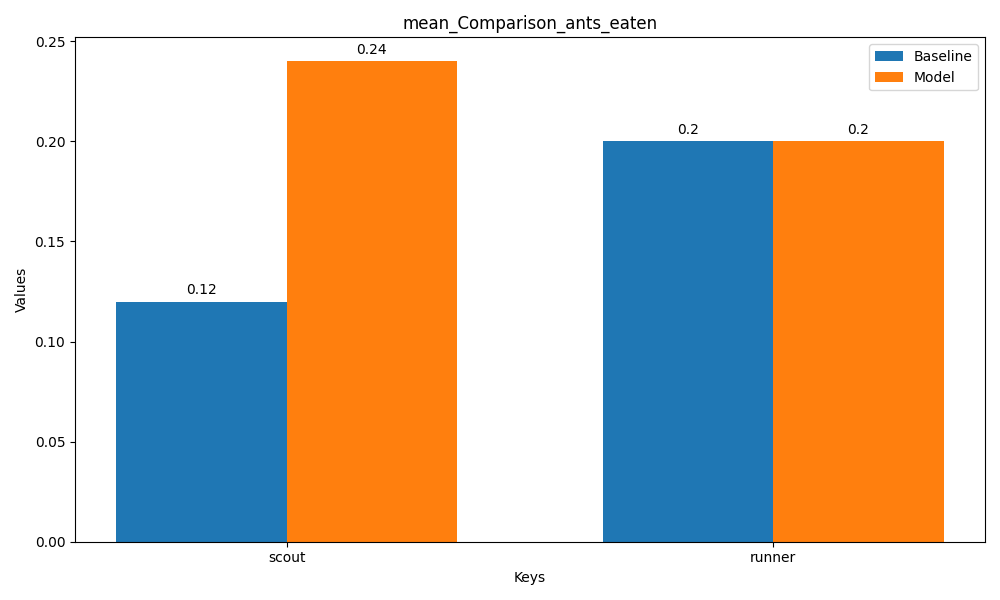
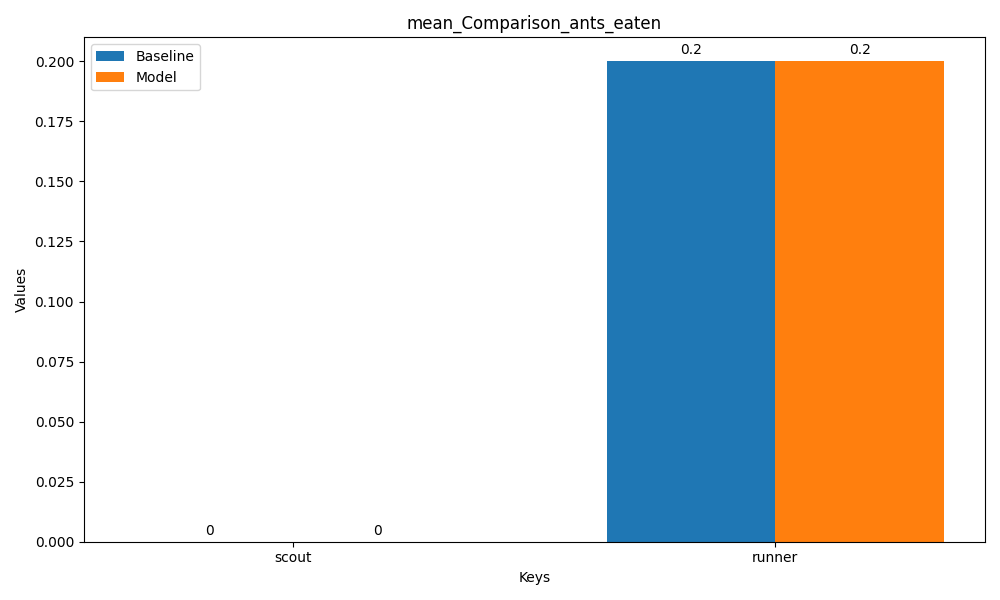
added rewards next N states, changed reward from final reward at timestep t to total reward at timestep t

diff --git a/entities/queen.py b/entities/queen.py
@@ -22,7 +22,8 @@ class queen():
                        }[species_name]
  
     # self.max_sequence_length = 15
-    self.eps = 1.0 if control else 0.25 
+    self.eps = 1.0
+    self.eps_decay = 0.999
     self.control = control
     self.number_of_dreams = 1
     self.discount_factor = 0.9
@@ -54,6 +55,12 @@ class queen():
         tf.keras.layers.Masking(mask_value=0),  # Mask padded values (0.0)
         # tf.keras.layers.InputLayer(shape=(None,self.max_input_size*self.max_input_size),dtype=int),
         tf.keras.layers.LSTM(64*8, return_sequences=True),
+        tf.keras.layers.LSTM(64*8, return_sequences=True),
+        tf.keras.layers.LSTM(64*8, return_sequences=True),
+        tf.keras.layers.LSTM(64*8, return_sequences=True),
+        tf.keras.layers.LSTM(64*8, return_sequences=True),
+        tf.keras.layers.LSTM(64*8, return_sequences=True),
+        tf.keras.layers.LSTM(64*8, return_sequences=True),
         # tf.keras.layers.SimpleRNN(64, return_sequences=True),
         # tf.keras.layers.SimpleRNN(64, return_sequences=True),
         # tf.keras.layers.SimpleRNN(64, return_sequences=True),
@@ -63,7 +70,7 @@ class queen():
         tf.keras.layers.Dropout(rate=0.25),
         tf.keras.layers.Dense(64,activation='relu'),  # Output Q-values for each action
         tf.keras.layers.Dropout(rate=0.25),
-        tf.keras.layers.Dense(self.action_space,activation='sigmoid')  # Output Q-values for each action
+        tf.keras.layers.Dense(self.action_space,activation='relu')  # Output Q-values for each action
       ])
       
       # lr_schedule = tf.keras.optimizers.schedules.ExponentialDecay(
@@ -71,22 +78,22 @@ class queen():
       #     decay_steps=1000,
       #     decay_rate=0.9
       # )
-      opt = tf.keras.optimizers.Adam(learning_rate=0.00001)
-      # opt = tf.keras.optimizers.RMSprop(learning_rate=0.001)
+      # opt = tf.keras.optimizers.Adam(learning_rate=0.00001)
+      opt = tf.keras.optimizers.RMSprop(learning_rate=0.0001)
       # opt = tf.keras.optimizers.Adam(learning_rate=lr_schedule)
       # self.model.compile(optimizer=opt, loss='mse')#mae?
       self.model.compile(optimizer=opt, loss='mae')#mae?
 
       
 
-  def train_model(self,episode):
+  def train_model(self,episode,epochs):
     if self.control:
       return
     X = []
     y = []
     
     #randomly select n files for training
-    limit = 10000 
+    limit = 200
     file_list = os.listdir(self.example_ant.history_path)
     rand_indecies = [random.randint(0,len(file_list)-1) for _ in range(limit)]
     file_list = [file_list[ind] for ind in rand_indecies]
@@ -96,50 +103,54 @@ class queen():
         ant_history = [obj for obj in f]
 
       #limit history randomly
-      random_limit = random.randint(1,len(ant_history))
-      
-      #X
-      ant_history = ant_history[:random_limit]
-      padded_history = self.pad_ant_obs_list(obs=None,history=ant_history)
-      X.append(tf.reshape(padded_history,(self.max_sequence_length,self.max_input_size*self.max_input_size)))
-      
+      # random_limit = random.randint(1,len(ant_history))
+      if len(ant_history) == 0:
+        continue
+      for sequential_limit in range(0,len(ant_history)):
+        #X
+        ant_history_limited = ant_history[:sequential_limit+1]
+        padded_history = self.pad_ant_obs_list(obs=None,history=ant_history_limited)
+        X.append(tf.reshape(padded_history,(self.max_sequence_length,self.max_input_size*self.max_input_size)))
+        #y
+        ant_y = np.array([dct['reward'] for dct in ant_history_limited]) 
 
-      #y
-      # ant_y = np.array([[dct['reward'] if i == dct['action'] else 
-      #                    a for i,a in enumerate(range(self.action_space))] 
-      #                    for dct in ant_history]) 
+        # #append sum of reward to arr 
+        regulatory_term = (np.max(ant_y) - np.min(ant_y))
+        regulatory_term = 1 if regulatory_term==0 else regulatory_term
+        ant_y = (ant_y - np.min(ant_y))/regulatory_term
+        y.append([sum(col) for col in zip(*ant_y)])
 
-      ant_y = np.array([dct['reward'] for dct in ant_history]) 
-      # ant_y = (ant_y - np.mean(ant_y))/np.std(ant_y)
-      regulatory_term = (np.max(ant_y) - np.min(ant_y))
-      regulatory_term = 1 if regulatory_term==0 else regulatory_term
-      ant_y = (ant_y - np.min(ant_y))/regulatory_term
-      y.append(sum(ant_y[:random_limit]))
+        # #append only last reward to arr
+        # reward_arr = ant_y[sequential_limit]
+        # regulatory_term = (np.max(reward_arr) - np.min(reward_arr))
+        # regulatory_term = 1 if regulatory_term==0 else regulatory_term
+        # reward_arr = (reward_arr - np.min(reward_arr))/regulatory_term
+        # y.append(reward_arr)
     
     print(self.example_ant.name,'training',' episode ',episode)
 
     val_loss_early_stopping = tf.keras.callbacks.EarlyStopping(monitor='val_loss',    
-                                                                patience=3,           
+                                                                patience=50,           
                                                                 verbose=0, 
                                                                 restore_best_weights=True)
     train_loss_early_stopping = tf.keras.callbacks.EarlyStopping(monitor='loss',    
-                                                                patience=5,           
+                                                                patience=50,           
                                                                 verbose=0, 
                                                                 restore_best_weights=True)
-    self.model.fit(np.array(X),
+    train_history = self.model.fit(np.array(X),
                   np.array(y),
-                  # epochs=5,
-                  epochs=100,
+                  epochs=epochs,
                   validation_split=0.1,
                   callbacks = [val_loss_early_stopping,train_loss_early_stopping],
                   # verbose=0,
-                  batch_size = 1048
+                  batch_size = 512
                   )
 
     self.model.save(self.example_ant.model_path)
-
+    return train_history
   def infer(self,obs_list,ant_history,dreaming=False):
-    # obs_list = tf.reshape(obs_list,(-1,self.max_sequence_length,self.max_input_size,self.max_input_size))
+    if self.eps<=0.1:
+      self.eps = self.eps*self.eps_decay
     actions=[]
     #add epsilon randomness and decay
     if self.eps > random.random():
@@ -166,16 +177,22 @@ class queen():
       actions = [np.argmax(pred_reward) for pred_reward in predicted_rewards]
     
 
-    dream_start_time=time.time()
+    # dream_start_time=time.time()
+    new_obs_time = []
     reward_arr = np.array([[0.0 for a in range(self.action_space)] for _ in range(len(obs_list))])
     for i,action in enumerate(range(self.action_space)):
+      new_obs_start_time=time.time()
       next_potential_obs_list = [self.get_new_obs_from_action(obs,action) for obs in obs_list]
+      new_obs_end_time=time.time()
+      new_obs_time.append(new_obs_end_time-new_obs_start_time)
       #fill rewards with state_reward, no dreaming yet
       for j,obs in enumerate(next_potential_obs_list):
         reward_arr[j,action] = self.example_ant.get_reward(obs)
 
+
       dreaming_reward_arr = []
       if dreaming==False:
+        dream_start_time=time.time()
         #get predicted rewards
         for i,dream in enumerate(range(self.number_of_dreams)):
           if i==0:
@@ -188,14 +205,18 @@ class queen():
         for j,reward_sum in enumerate(range(len(reward_arr))):
           # assert len(dreaming_reward_arr[j]) == len(reward_arr)
           reward_arr[j][action] += sum([r[j] for r in dreaming_reward_arr])
+        dream_end_time=time.time()
+        # print('Dream time',dream_end_time-dream_start_time)
       
     dream_end_time=time.time()
-    print('Dream time',dream_end_time-dream_start_time)
     history = []
     for i,obs in enumerate(obs_list):
       #store observation, decision, and reward for future training
       # history.append({'obs':np.squeeze(obs.numpy()).tolist(),'action':int(action),'reward':float(reward)})#doing this every time might be too slow, maybe gather and save in batches?
       history.append({'obs':np.squeeze(np.array(obs)).tolist(),'reward':[float(r) for r in reward_arr[i]]})#doing this every time might be too slow, maybe gather and save in batches?
+    
+    # print('new_obs_time',sum(new_obs_time))
+    
     return actions,history
   
   def get_new_obs_from_action(self,obs,action):
@@ -206,7 +227,7 @@ class queen():
         for j,character in enumerate(row):
           if character == self_character_ascii:
             return [i,j]
-      return None
+      # return None
     def check_position(position,obs):
       #stop if any of these conditions are met:
         #if sharing a space with another species
@@ -229,8 +250,8 @@ class queen():
       ]
       stopped=check_position(potential_position,obs)
       return potential_position,stopped
-   
-    position = find_self_in_obs(obs)
+    
+    position = find_self_in_obs(np.array(obs))
     prev_position = []
     new_obs = np.array(obs).copy()
     for _ in range(self.example_ant.max_movement_speed):
@@ -267,7 +288,8 @@ class queen():
   
     hist_obs = history_obs_to_obs(history)
 
-    hist_obs.append(obs)
+    if obs is not None:
+      hist_obs.append(obs)
     num_padding = self.max_sequence_length-len(hist_obs)
     num_padding = 0 if num_padding < 0 else num_padding
     for _ in range(num_padding):

diff --git a/main.py b/main.py
@@ -8,6 +8,7 @@ import numpy as np
 import random
 import os
 import shutil
+import matplotlib.pyplot as plt
 import scripts.plot_episode_stats as pes
 if __name__ == '__main__':
 
@@ -58,8 +59,32 @@ if __name__ == '__main__':
   with open(args.config,'r') as f:
     config = yaml.safe_load(f)
 
+
+  #train models prior to runs
+  # training_grid_world = world(
+  #                 x_size=config['grid_size_x'],
+  #                 y_size=config['grid_size_y'],
+  #                 num_ants=config['ants'],
+  #                 num_food=config['food'],
+  #                 config=config,
+  #                 seed=0,
+  #                 control=False,
+  #                 episode=-1,
+  #                 )
+  # models_train_history = training_grid_world.train_models(epochs=1000)
+  # for species,train_history in models_train_history:
+  #   plt.figure()
+  #   plt.plot(train_history.history['loss'], label='Train Loss')
+  #   plt.plot(train_history.history['val_loss'], label='Validation Loss')
+  #   plt.title('Model Loss')
+  #   plt.xlabel('Epoch')
+  #   plt.ylabel('Loss')
+  #   plt.legend(loc='upper right')
+  #   plt.savefig(f'figures/{species}_training_history.png')
+
   episode_stats = []
   control_stats = []
+
 
   for episode in range(config['episodes']):
     if args.seed == -1:
@@ -67,7 +92,7 @@ if __name__ == '__main__':
     else:
       run_seed = args.seed
     if args.control_run == True:
-      grid_world = world(
+      control_grid_world = world(
                   x_size=config['grid_size_x'],
                   y_size=config['grid_size_y'],
                   num_ants=config['ants'],
@@ -77,10 +102,10 @@ if __name__ == '__main__':
                   control=True,
                   episode=episode,
                   )
-      control_stats.append(run_episode(grid_world,episode,config))
+      control_stats.append(run_episode(control_grid_world,episode,config))
   
     if args.model_run == True:
-      grid_world = world(
+      model_grid_world = world(
                   x_size=config['grid_size_x'],
                   y_size=config['grid_size_y'],
                   num_ants=config['ants'],
@@ -90,44 +115,9 @@ if __name__ == '__main__':
                   control=False,
                   episode=episode,
                   )
-      episode_stats.append(run_episode(grid_world,episode,config))
+      episode_stats.append(run_episode(model_grid_world,episode,config))
 
     print(f'Episode {episode} Concluded')
-  # for episode in range(config['episodes']):
-  #   if args.seed == -1:
-  #     run_seed = random.random()
-  #   else:
-  #     run_seed = args.seed
-  #   if args.control == True:
-  #     try:  
-  #       grid_world = world(
-  #                   x_size=config['grid_size_x'],
-  #                   y_size=config['grid_size_y'],
-  #                   num_ants=config['ants'],
-  #                   num_food=config['food'],
-  #                   config=config,
-  #                   seed=run_seed,
-  #                   control=True,
-  #                   episode=episode,
-  #                   )
-  #       control_stats.append(run_episode(grid_world,episode,config))
-  #     except Exception as e:
-  #       print(e)
-  #   try:
-  #     grid_world = world(
-  #                 x_size=config['grid_size_x'],
-  #                 y_size=config['grid_size_y'],
-  #                 num_ants=config['ants'],
-  #                 num_food=config['food'],
-  #                 config=config,
-  #                 seed=run_seed,
-  #                 control=False,
-  #                 episode=episode,
-  #                 )
-  #     episode_stats.append(run_episode(grid_world,episode,config))
-  #   except Exception as e:
-  #     print(e)
-  #   print(f'Episode {episode} Concluded')
 
   #plot stats
   if args.control_run==True:

diff --git a/entities/world.py b/entities/world.py
@@ -237,10 +237,11 @@ class world():
       f.write(message+'\n')
 
 
-  def train_models(self):
+  def train_models(self,epochs):
+    train_history_arr = []
     for species in self.config['species']:
-      self.queens[species].train_model(self.episode)#this method covers loading, training, and saving model to appropriate path
-
+      train_history_arr.append((species,self.queens[species].train_model(self.episode,epochs)))#this method covers loading, training, and saving model to appropriate path
+    return train_history_arr
   def save_history(self):
     for ant in self.ants:
       ant.save_history(ant.ID,ant.name)

diff --git a/scripts/run_episode.py b/scripts/run_episode.py
@@ -14,13 +14,13 @@ def run_episode(grid_world: world,episode,config):
     grid_world.entity_turns()#step to next state
     # time.sleep(0.25)
 
-    grid_world.log_state(episode,step,step==config['num_timesteps']-1)
+    # grid_world.log_state(episode,step,step==config['num_timesteps']-1)
     timestep_end = time.time()
     timestep_times.append(timestep_end-timestep_start)
     
   print('Average timestep (s)',np.mean(timestep_times))
   grid_world.save_history()
-  grid_world.train_models()
+  grid_world.train_models(epochs=10)
   episode_stats = grid_world.get_stats() 
   return episode_stats
   # waiting_count=0
